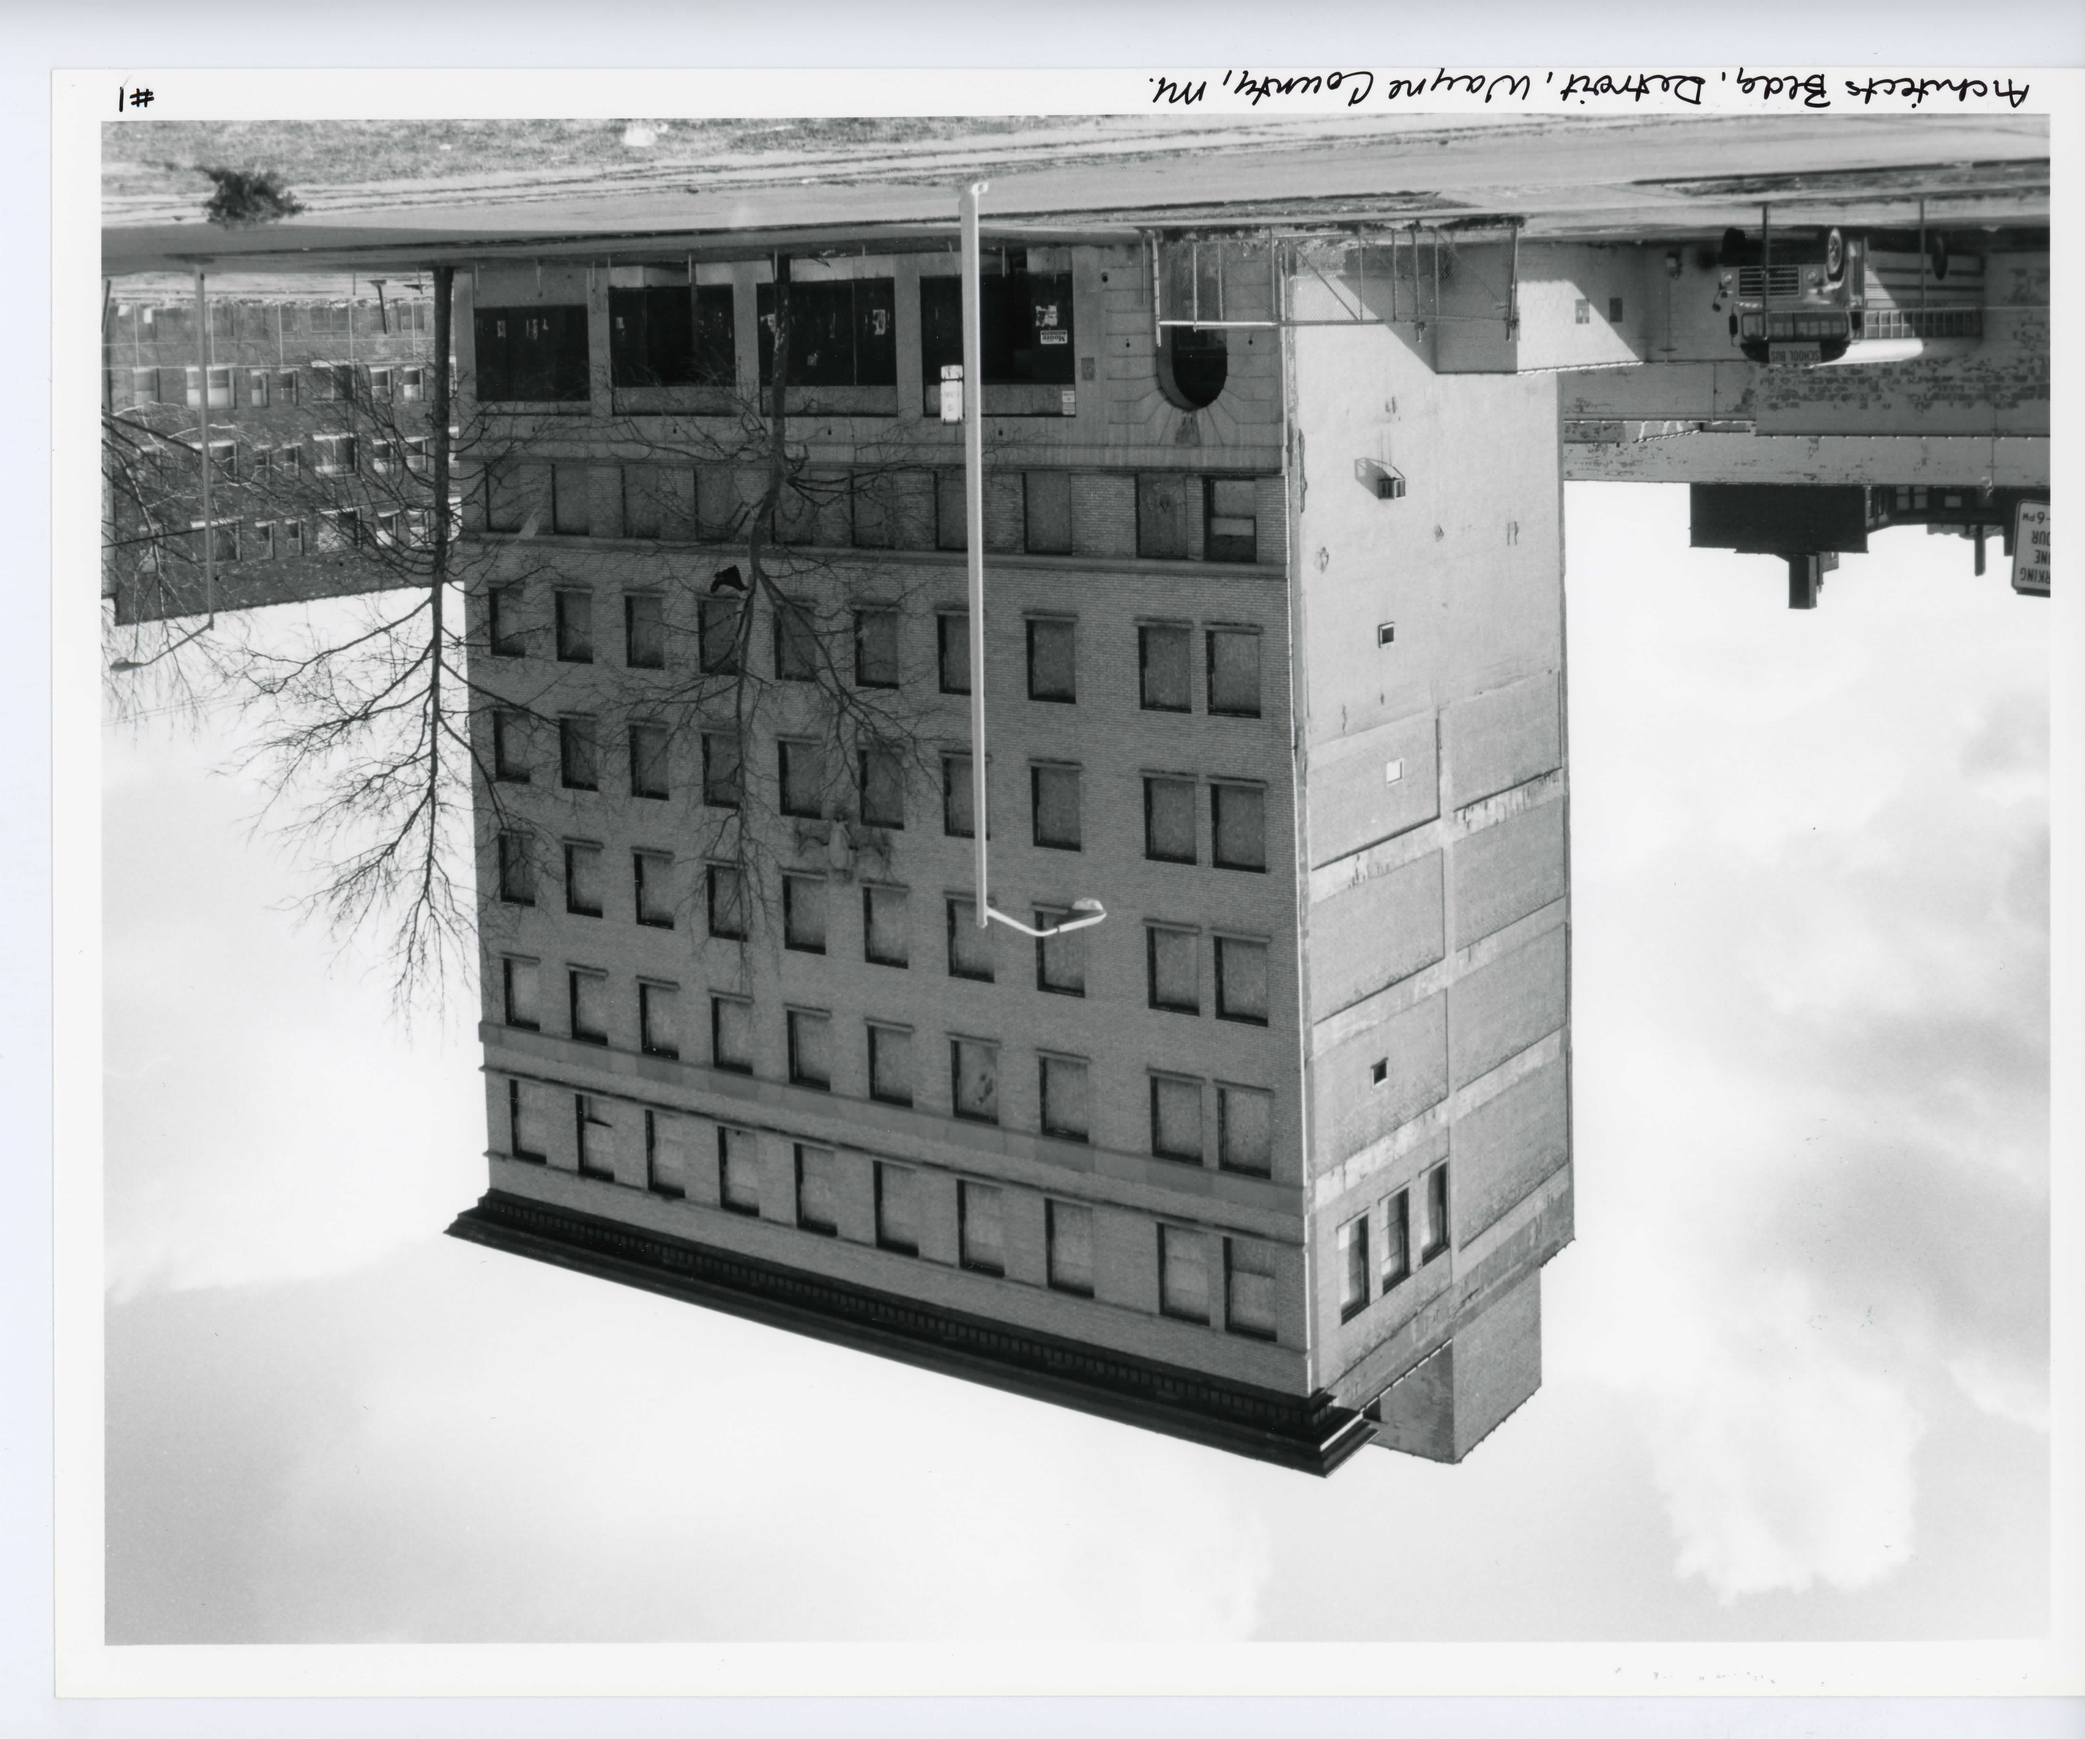
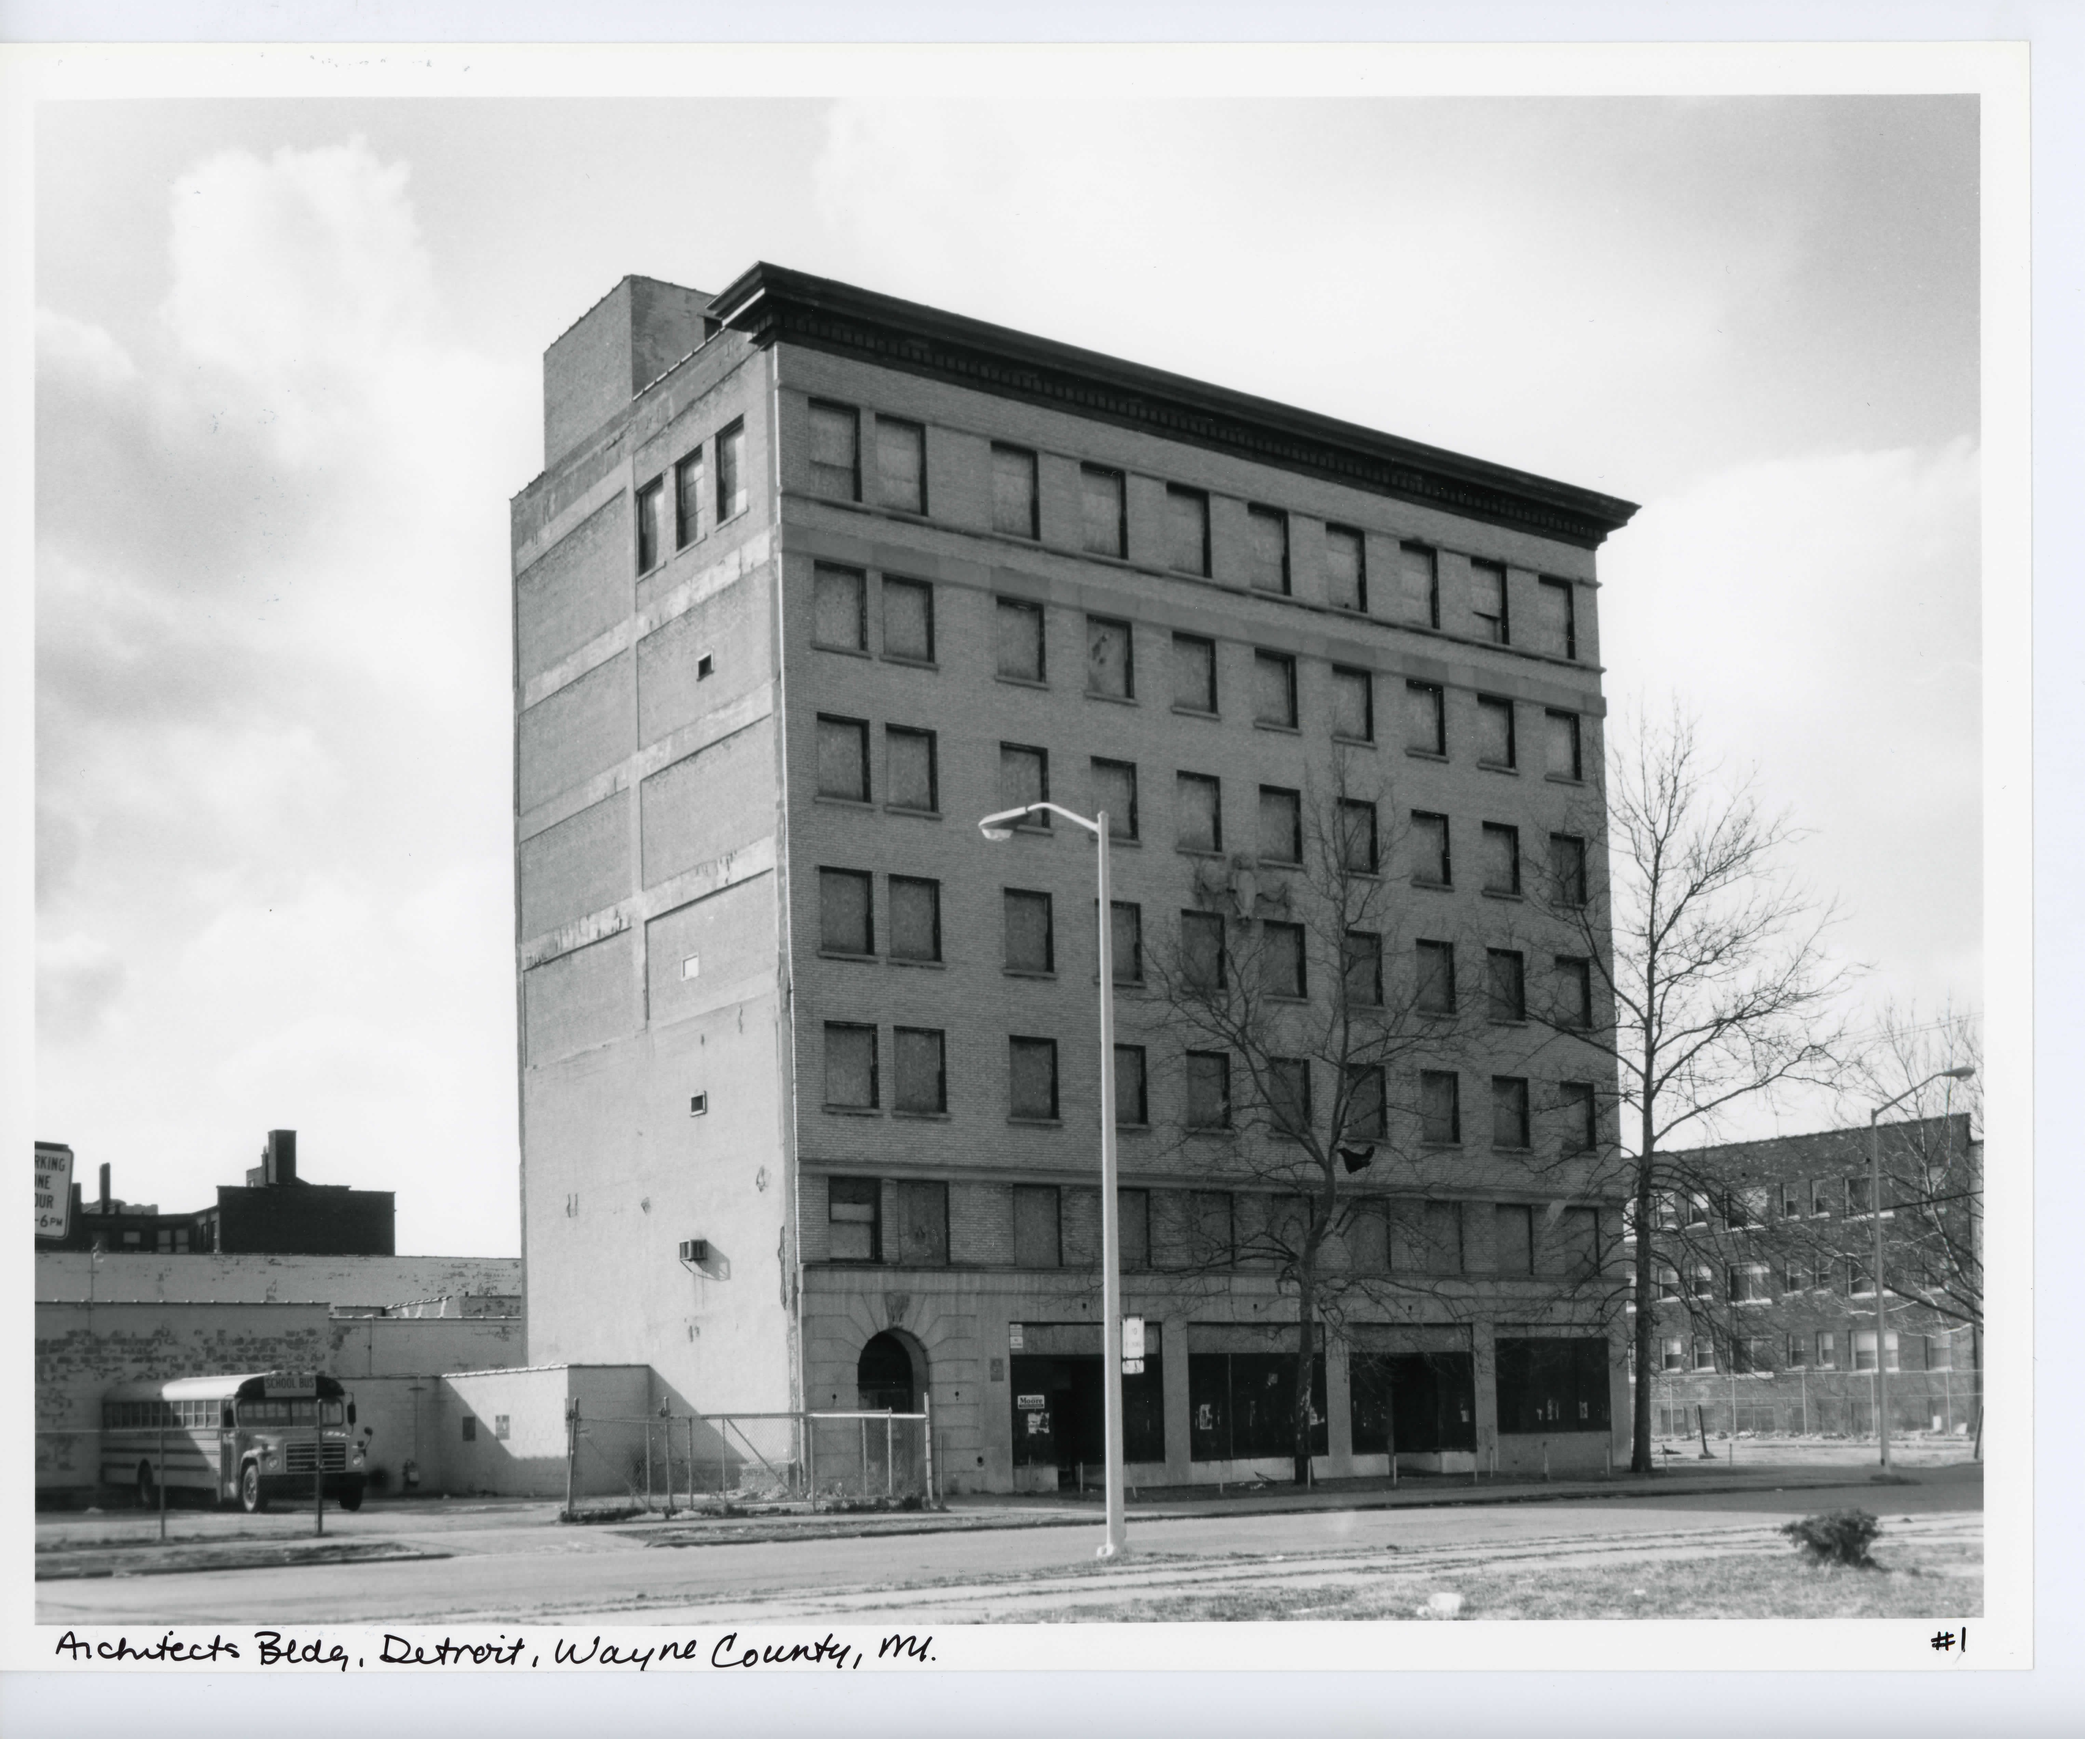
Smart image rotation: detect sky position to determine correct orientation

diff --git a/scripts/extract-nrhp-images.py b/scripts/extract-nrhp-images.py
@@ -16,8 +16,8 @@ import numpy as np
 
 def detect_and_fix_rotation(image_bytes: bytes) -> tuple[bytes, int]:
     """
-    Detect if image needs rotation based on EXIF data or aspect ratio analysis.
-    Building photos are typically landscape (wider than tall).
+    Detect if image needs rotation based on EXIF data and image content analysis.
+    For building photos: sky should be at top (brighter), ground at bottom (darker).
     Returns (corrected_bytes, rotation_applied)
     """
     try:
@@ -41,22 +41,70 @@ def detect_and_fix_rotation(image_bytes: bytes) -> tuple[bytes, int]:
                             rotation = 270
                         break
         
-        # Check if image appears sideways based on aspect ratio
-        # Building exterior photos are almost always landscape (wider than tall)
-        # If image is very portrait (tall and narrow), it's likely rotated 90°
+        # If EXIF already rotated, we're done
+        if rotation != 0:
+            output = io.BytesIO()
+            img.save(output, format='JPEG', quality=95)
+            return output.getvalue(), rotation
+        
+        # Analyze image content to determine correct orientation
+        # For building photos: sky (bright) should be at top, ground (dark) at bottom
+        if img.mode != 'RGB':
+            img = img.convert('RGB')
+        
+        arr = np.array(img)
+        height, width = arr.shape[:2]
+        
+        # Calculate average brightness of each edge region (10% of image)
+        edge_size_h = height // 10
+        edge_size_w = width // 10
+        
+        top_brightness = np.mean(arr[:edge_size_h, :, :])
+        bottom_brightness = np.mean(arr[-edge_size_h:, :, :])
+        left_brightness = np.mean(arr[:, :edge_size_w, :])
+        right_brightness = np.mean(arr[:, -edge_size_w:, :])
+        
+        # Determine which edge is likely the sky (brightest)
+        edges = {
+            'top': top_brightness,
+            'bottom': bottom_brightness,
+            'left': left_brightness,
+            'right': right_brightness
+        }
+        
+        brightest_edge = max(edges, key=edges.get)
+        brightness_diff = max(edges.values()) - min(edges.values())
+        
+        # Only rotate if there's a significant brightness difference (> 20)
+        # This indicates a clear sky vs ground distinction
+        if brightness_diff > 20:
+            if brightest_edge == 'bottom':
+                # Image is upside down
+                img = img.rotate(180, expand=True)
+                rotation = 180
+                print(f"      🔄 Auto-rotating 180°: sky detected at bottom")
+            elif brightest_edge == 'left':
+                # Image is rotated 90° counterclockwise
+                img = img.rotate(-90, expand=True)
+                rotation = 90
+                print(f"      🔄 Auto-rotating 90° CW: sky detected on left")
+            elif brightest_edge == 'right':
+                # Image is rotated 90° clockwise
+                img = img.rotate(90, expand=True)
+                rotation = 270
+                print(f"      🔄 Auto-rotating 90° CCW: sky detected on right")
+            # If brightest is top, image is correctly oriented
+        
+        # Fallback: if still very portrait and no rotation applied, likely needs 90° rotation
         width, height = img.size
         aspect = width / height
-        
-        # If aspect ratio is very portrait (< 0.85), the photo is likely rotated
-        # Most building photos have aspect 1.0-1.5 (landscape or square-ish)
-        if aspect < 0.85 and rotation == 0:
-            # Rotate 90° clockwise to make it landscape
+        if aspect < 0.7 and rotation == 0:
+            # Very portrait image - likely scanned sideways
             img = img.rotate(-90, expand=True)
             rotation = 90
-            print(f"      🔄 Auto-rotating: aspect {aspect:.2f} → landscape")
+            print(f"      🔄 Auto-rotating: very portrait aspect {aspect:.2f}")
         
         if rotation != 0:
-            # Save rotated image
             output = io.BytesIO()
             img.save(output, format='JPEG', quality=95)
             return output.getvalue(), rotation
